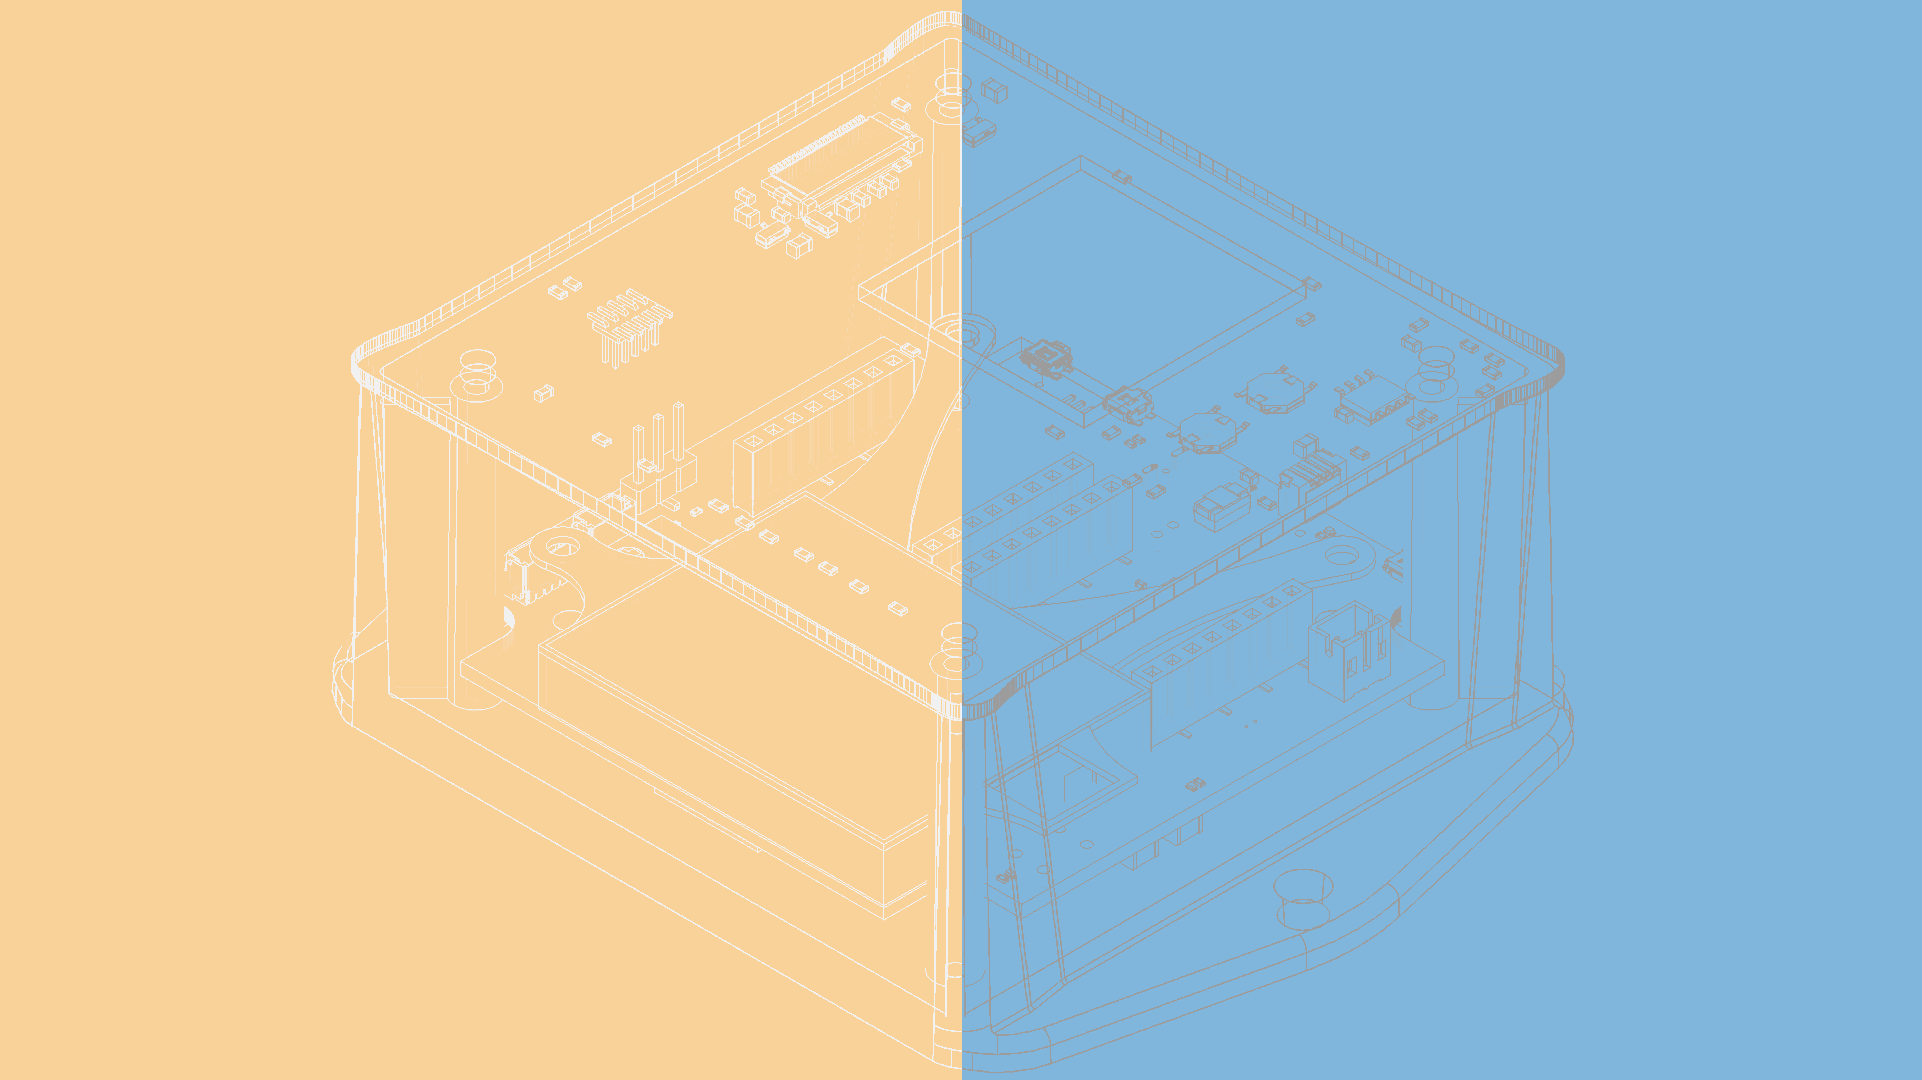
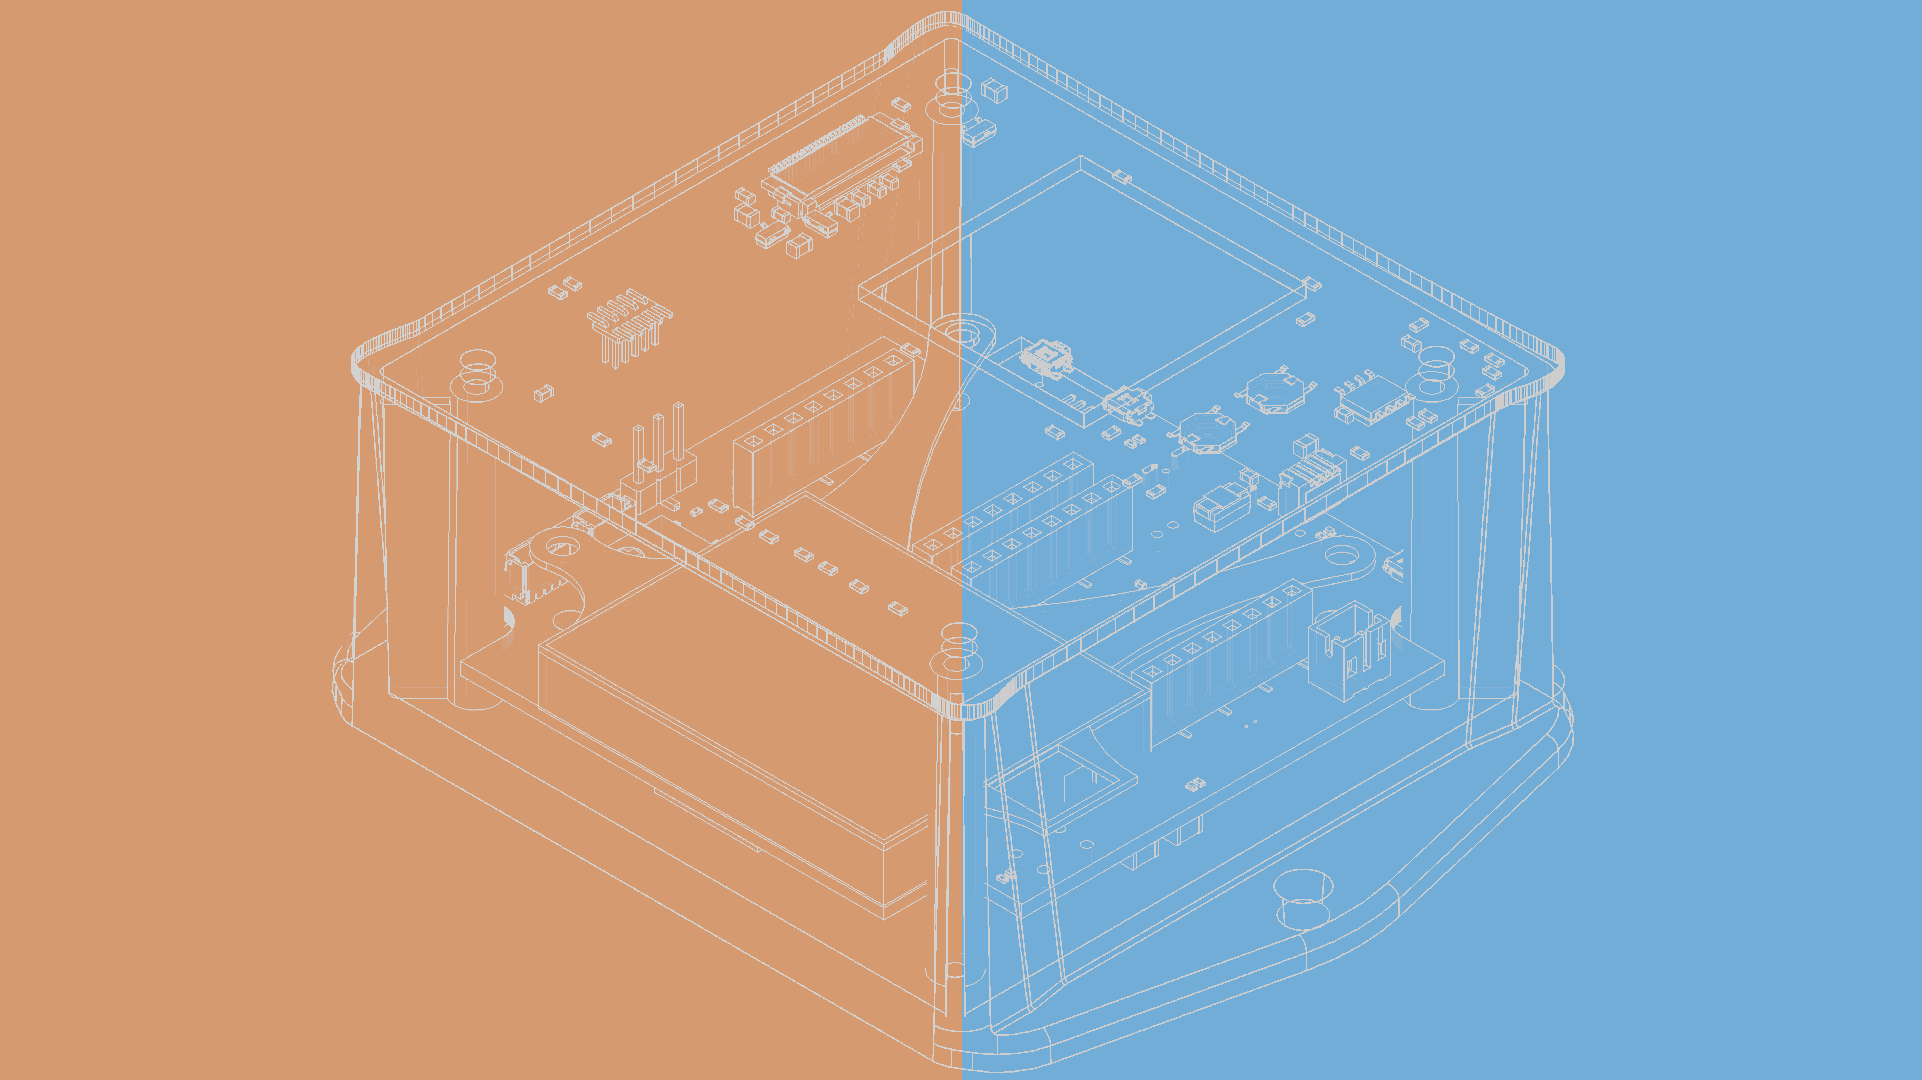
change complimentary color to burnt orange

diff --git a/themes/roxo-hugo/assets/scss/_variables.scss b/themes/roxo-hugo/assets/scss/_variables.scss
@@ -1,6 +1,6 @@
 //site color variables
 $body-color: #F8F7F9;
-$primary-color: #F4AC45;
+$primary-color: #BD5B19;
 $secondary-color: #197BBD;
 $text-color: #2B2D42;
 $text-color-dark: #2B2D42;
